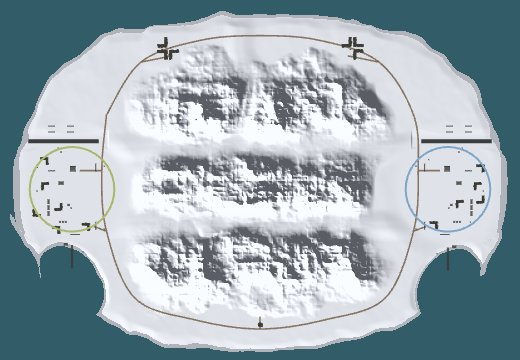
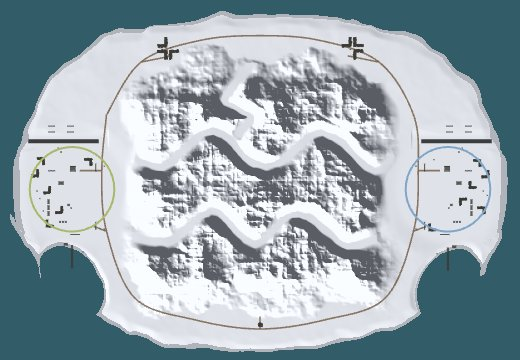
Ледяной остров: winding canyons through one solid massif
The middle of the island was three ridges with open valleys between
them, so a plane could fly straight from base to base. Now it is one
mountain massif (300-650 m, almost nowhere below 150 m) cut by two
snake-like canyons with steep, shivering walls and ~5 long bends each,
plus a zig-zag gorge from the north coast. There is no straight line
through any of them at any height below the peaks; the bends are
still wide enough to fly (radius ~70-80 m at the centre line).

Claude-Session: https://claude.ai/code/session_01UwdCJvSSEts62xg7v1bxqN

diff --git a/public/game.js b/public/game.js
@@ -139,7 +139,7 @@ function renderLobby() {
   }
   // map choice (the host picks)
   const cur = room.map || 'valley';
-  $('maps').innerHTML = MAP_LIST.map(m => `<button data-map="${m.id}" class="${m.id === cur ? 'on' : ''}" ${isHost() ? '' : 'disabled'}><img src="maps/${m.id}.jpg?v=${ASSET_V}" alt=""><b>${m.name}</b><span>${m.desc}</span></button>`).join('');
+  $('maps').innerHTML = MAP_LIST.map(m => `<button data-map="${m.id}" class="${m.id === cur ? 'on' : ''}" ${isHost() ? '' : 'disabled'}><img src="maps/${m.id}.jpg?v=${ASSET_V}b" alt=""><b>${m.name}</b><span>${m.desc}</span></button>`).join('');
   $('maps').querySelectorAll('button').forEach(b => b.onclick = () => { if (isHost() && b.dataset.map !== cur) socket.emit('setMap', b.dataset.map); });
   $('startBtn').disabled = !isHost();
   $('startBtn').textContent = isHost() ? (room.players.length < 2 ? 'Начать (тренировка)' : 'Начать бой') : 'Ожидание хоста…';
@@ -483,7 +483,7 @@ function camFade(mat, near, far) {
 
 // ═══════════ MAPS ═══════════
 // 'valley' — the first map (hills, sea in the south); 'ice' — Ледяной остров: a winter island with three
-// mountain ranges in the middle, low canyons between them, dirt tracks around. Both keep the same bases,
+// one mountain massif in the middle cut by narrow zig-zag canyons, dirt tracks around. Both keep the same bases,
 // runways, hangars and ports, so the vehicle layout on the server is shared.
 const MAP_LIST = [
   { id: 'valley', name: 'Долина', desc: 'Холмы, городки и море на юге' },
@@ -499,11 +499,7 @@ const ICE = {
     [[-700, 40], [-440, -10], [-150, 80], [150, 0], [430, 70], [700, 30]],
     [[-640, 500], [-400, 560], [-130, 480], [150, 550], [420, 480], [640, 540]],
   ],
-  canyons: [  // valley floors (low-flying routes)
-    [[-1000, -200], [-700, -225], [-420, -190], [-150, -245], [150, -200], [450, -245], [700, -205], [1000, -215]],
-    [[-1000, 280], [-700, 260], [-430, 295], [-150, 250], [150, 295], [440, 250], [700, 285], [1000, 270]],
-    [[-120, -1080], [-130, -840], [-60, -640], [-150, -245]],
-  ],
+  canyons: null,   // built by iceCanyons(): narrow zig-zag gorges through one solid mountain massif
   roads: [    // packed-snow dirt tracks: a ring around the mountains + spurs
     [[-980, -420], [-760, -760], [-380, -900], [0, -930], [380, -900], [760, -760], [980, -420], [1010, -60], [980, 330], [800, 760], [420, 900], [0, 960], [-420, 900], [-800, 760], [-980, 330], [-1010, -60], [-980, -420]],
     [[-1010, -60], [-1150, -60]], [[1010, -60], [1150, -60]], [[-980, 330], [-1060, 300]], [[980, 330], [1060, 300]],
@@ -514,6 +510,22 @@ const ICE = {
   coastZ: x => { const g = ICE.coast; if (!g) return 600; const i = Math.max(0, Math.min(g.length - 1, Math.round((x + MAP_X + 500) / 10))); return g[i]; },
   grid: null,
 };
+// "a snake that caught a cold": tight, uneven zig-zags, so there is no straight line through
+function iceCanyons() {
+  if (ICE.canyons) return ICE.canyons;
+  // long bends (a plane can just make them: turn radius ~100 m) — no straight line of sight end to end
+  const rnd = mulberry32(4242), zig = (z0, amp0) => {
+    const pts = [[-1060, z0], [-930, z0]];
+    let x = -930, side = rnd() < .5 ? 1 : -1;
+    while (x < 520) { x += 270 + rnd() * 90; pts.push([x, z0 + side * amp0 * (0.8 + rnd() * 0.35)]); side = -side; }
+    pts.push([930, z0], [1060, z0]);
+    return pts;
+  };
+  const gorge = [[-140, -1100], [-140, -980]];
+  for (let z = -980, side = 1; z < -420; side = -side) { z += 190 + rnd() * 50; gorge.push([-140 + side * (75 + rnd() * 25), Math.min(z, -420)]); }
+  gorge.push([-140, -300]);
+  return (ICE.canyons = [zig(-200, 115), zig(300, 115), gorge]);
+}
 function catmullPts(pts, n = 10) {
   const out = [], p = [pts[0], ...pts, pts[pts.length - 1]];
   for (let i = 1; i < p.length - 2; i++) for (let k = 0; k < n; k++) {
@@ -538,9 +550,9 @@ function iceGrid() {
   const n1 = makeNoise(mulberry32(911)), n2 = makeNoise(mulberry32(912)), n3 = makeNoise(mulberry32(913));
   const fbm = (n, x, z, o) => { let s = 0, a = 1, t = 0; for (let i = 0; i < o; i++) { s += n(x, z) * a; t += a; a *= .5; x *= 2.03; z *= 2.03; } return s / t; };
   const ridged = (x, z) => { let s = 0, a = 1, t = 0; for (let i = 0; i < 6; i++) { const v = 1 - Math.abs(n1(x, z) * 2 - 1); s += v * a; t += a; a *= .5; x *= 2.07; z *= 2.07; } return s / t; };
-  const ranges = ICE.ranges.map(r => catmullPts(r, 5)), canyons = ICE.canyons.map(c => catmullPts(c, 4));
+  const ranges = ICE.ranges.map(r => catmullPts(r, 5)), canyons = iceCanyons().map(c => catmullPts(c, 5));
   const bbox = (pts, m) => { let x0 = 1e9, x1 = -1e9, z0 = 1e9, z1 = -1e9; for (const [x, z] of pts) { x0 = Math.min(x0, x); x1 = Math.max(x1, x); z0 = Math.min(z0, z); z1 = Math.max(z1, z); } return [x0 - m, x1 + m, z0 - m, z1 + m]; };
-  const rbox = ranges.map(r => bbox(r, 470)), cbox = canyons.map(c => bbox(c, 115));
+  const rbox = ranges.map(r => bbox(r, 470)), cbox = canyons.map(c => bbox(c, 95));
   const inB = (b, x, z) => x > b[0] && x < b[1] && z > b[2] && z < b[3];
   const g = new Float32Array(ICE_NX * ICE_NZ);
   for (let j = 0; j < ICE_NZ; j++) for (let i = 0; i < ICE_NX; i++) {
@@ -559,10 +571,11 @@ function iceGrid() {
       const d = segDist(x, z, ranges[r]), w = 150 * (0.45 + 1.1 * fbm(n3, x * 0.006 + r * 7, z * 0.006, 4));
       mask = Math.max(mask, Math.pow(smooth(w * 1.5, w * 0.1, d), 1.4) + 0.2 * smooth(w * 2.1, w * 1.1, d));
     }
-    mask = Math.min(1, mask) * smooth(830 + (n3(x * 0.005, z * 0.005 + 9) - .5) * 300, 520, ax);
-    if (mask > 0) h += Math.pow(mask, 0.9) * (80 + 600 * Math.pow(ridged(x * 0.0042, z * 0.0042), 1.7) * (0.55 + 0.7 * fbm(n3, x * 0.0038 + 3, z * 0.0038 - 4, 3)));
+    const Rm = Math.hypot(x / 860, (z - 20) / 760) * (1 + (fbm(n3, x * 0.004 + 11, z * 0.004, 3) - .5) * .35);
+    mask = Math.max(Math.min(1, mask), smooth(1.0, 0.72, Rm)) * smooth(900 + (n3(x * 0.005, z * 0.005 + 9) - .5) * 200, 640, ax);
+    if (mask > 0) h += Math.pow(mask, 0.9) * (190 + 480 * Math.pow(ridged(x * 0.0042, z * 0.0042), 1.6) * (0.55 + 0.7 * fbm(n3, x * 0.0038 + 3, z * 0.0038 - 4, 3)));
     // canyon floors
-    for (let ci = 0; ci < canyons.length; ci++) { const c = canyons[ci]; if (!inB(cbox[ci], x, z)) continue; const k = smooth(110, 15, segDist(x, z, c)); if (k > 0) h = h * (1 - .8 * k) + (40 + 10 * n2(x * 0.008, z * 0.008)) * .8 * k; }
+    for (let ci = 0; ci < canyons.length; ci++) { const c = canyons[ci]; if (!inB(cbox[ci], x, z)) continue; const k = smooth(90, 22, segDist(x, z + (n2(x * 0.011, z * 0.011 + 31) - .5) * 34, c)); /* shivering walls */ if (k > 0) h = lerp(h, Math.min(h, 38 + 8 * n2(x * 0.008, z * 0.008)), k); }
     // flat bases and runways (same as the first map)
     let flat = 0;
     for (const b of BASES) flat = Math.max(flat, 1 - smooth(BASE_R + 50, BASE_R + 190, Math.hypot(x - b.x, z - b.z)));
